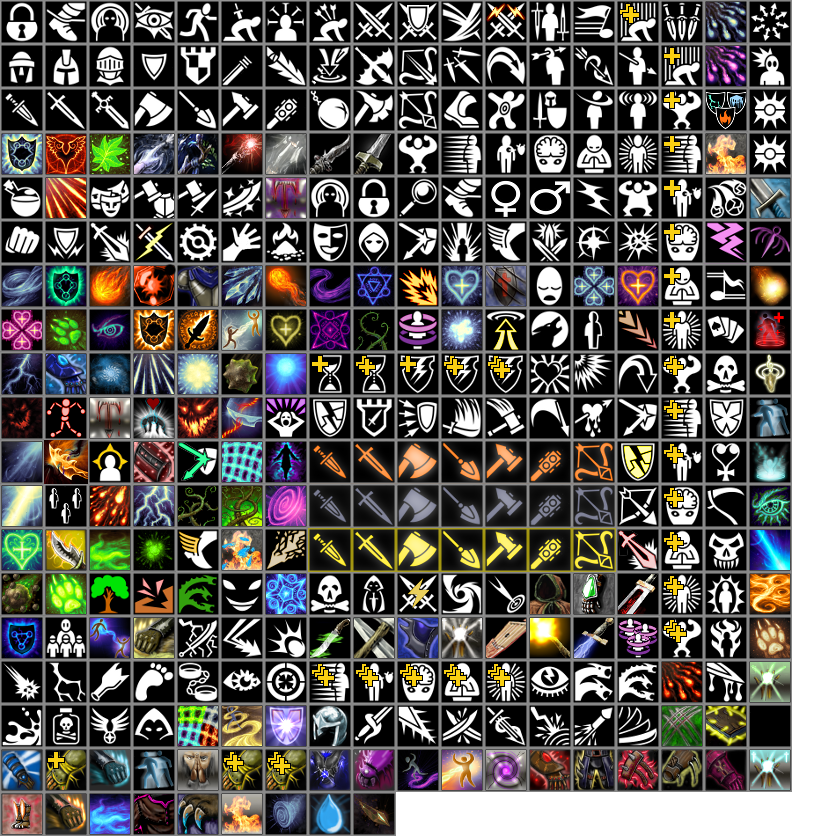
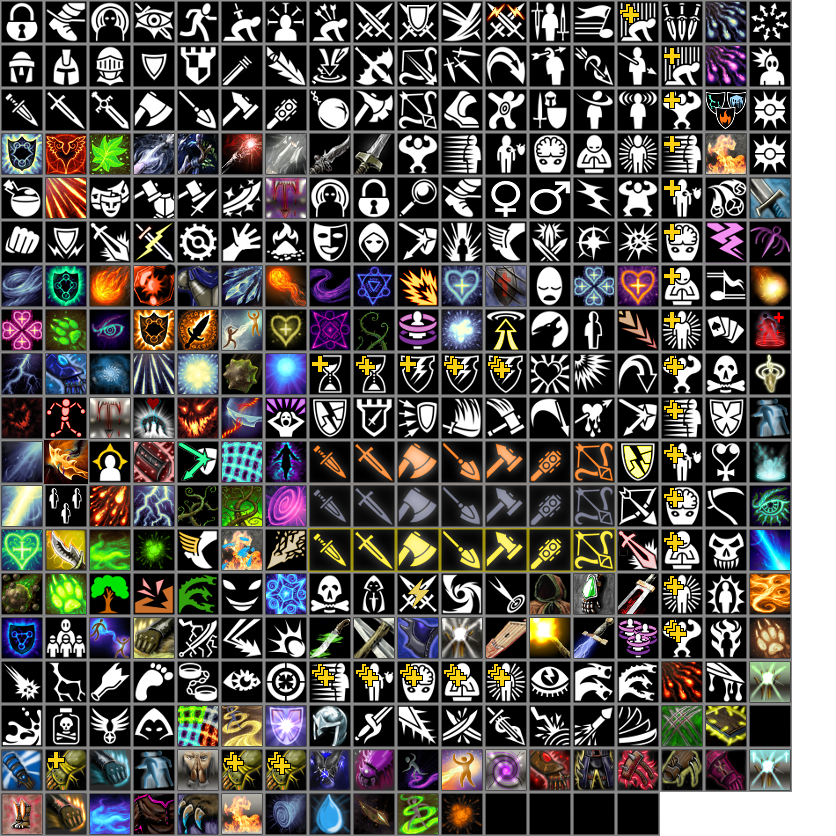
completed proof of concept medium ability

Changed region(s): [[0.4665, 0.933, 0.8086, 1.0]]

diff --git a/core/scripts/abilities/mediumInvocation.js b/core/scripts/abilities/mediumInvocation.js
@@ -1,0 +1,92 @@
+function onActivate(game, slot) {
+	var parent = slot.getParent();
+	
+	var gestures = getActiveGestures(parent);
+	
+	var creatures = game.ai.getTouchableCreatures(parent, "Hostile");
+	var targeter = game.createListTargeter(slot);
+	targeter.addAllowedCreatures(creatures);
+	targeter.activate();
+}
+
+function canActivate(game, parent, slot) {
+	var parent = slot.getParent();
+	
+	if (!parent.timer.canActivateAbility(slot.getAbilityID())) return false;
+	
+	var words = getActiveWords(parent);
+	var gestures = getActiveGestures(parent);
+	
+	if (words.length == 0) return false;
+	
+	return true;
+}
+
+function getActiveWords(parent) {
+	var words = [];
+	
+	if (parent.get("roleMediumWordFire") == true) words.push("Fire");
+	
+	return words;
+}
+
+function getActiveGestures(parent) {
+	var gestures = [];
+	
+	return gestures;
+}
+
+function onTargetSelect(game, targeter) {
+	var ability = targeter.getSlot().getAbility();
+	var parent = targeter.getParent();
+    // cast the spell
+    targeter.getSlot().activate();
+	
+	var target = targeter.getSelectedCreature();
+
+	// check for spell failure
+	if (!ability.checkSpellFailure(parent, target)) return;
+	
+	// perform the touch attack in a new thread as it will block
+	var cb = ability.createDelayedCallback("performTouch");
+	cb.addArgument(targeter);
+	cb.start();
+}
+
+function performTouch(game, targeter) {
+	var spell = targeter.getSlot().getAbility();
+	var parent = targeter.getParent();
+	var target = targeter.getSelectedCreature();
+	var casterLevel = parent.stats.getCasterLevel();
+	
+	if (game.meleeTouchAttack(parent, target)) {
+		// create the callback that will apply damage partway through the animation
+		var callback = spell.createDelayedCallback("applyWords");
+		callback.setDelay(0.2);
+		callback.addArguments([parent, target, targeter]);
+		
+		// create the animation
+		var anim = game.getBaseAnimation("blast");
+		var position = target.getLocation().getCenteredScreenPoint();
+		anim.setPosition(position.x, position.y);
+		
+		game.runAnimationNoWait(anim);
+		game.lockInterface(anim.getSecondsRemaining());
+		callback.start();
+	}
+}
+
+function applyWords(game, parent, target, targeter) {
+	var words = getActiveWords(parent);
+	var spell = targeter.getSlot().getAbility();
+	var casterLevel = parent.stats.getCasterLevel();
+	
+	for (var i = 0; i < words.length; i++) {
+		var word = words[i];
+		
+		if (word == "Fire") {
+			var damage = game.dice().rand(4, 8) + casterLevel;
+			spell.applyDamage(parent, target, damage, "Fire");
+		}
+	}
+}

diff --git a/core/scripts/abilities/mediumWordGesture.js b/core/scripts/abilities/mediumWordGesture.js
@@ -1,0 +1,60 @@
+function onActivate(game, slot) {
+   var abilityID = slot.getAbilityID();
+   var parent = slot.getParent();
+   var duration = 2;
+   
+   if (abilityID == "WordFire") {
+	   slot.setActiveRoundsLeft(duration);
+	   slot.activate();
+	   parent.timer.performAction(5000);
+	   
+	   var effect = slot.createEffect("abilities/mediumWordGesture");
+	   effect.setDuration(duration);
+	   effect.setTitle("Medium Word: Fire");
+	   effect.put("parentMediumValue", "roleMediumWordFire");
+	   parent.put("roleMediumWordFire", true);
+	
+	   parent.applyEffect(effect);
+   }
+}
+
+function canActivate(game, parent, slot) {
+	var abilityID = slot.getAbilityID();
+    var parent = slot.getParent();
+	
+	var numWords = getNumActiveWords(parent);
+	var numGestures = getNumActiveGestures(parent);
+	
+	if (abilityID.startsWith("Word")) {
+		// a word
+		if (numWords + 1 > numGestures) {
+			return parent.timer.canPerformAction(5000);
+		}
+	} else {
+		// a gesture
+		if (numGestures + 1 > numWords) {
+			return parent.timer.canPerformAction(5000);
+		}
+	}
+	
+	return true;
+}
+
+function getNumActiveWords(parent) {
+	var count = 0;
+	
+	if (parent.get("roleMediumWordFire") == true) count++;
+	
+	return count;
+}
+
+function getNumActiveGestures(parent) {
+	var count = 0;
+	
+	return count;
+}
+
+// called on the removal of the word / gesture effect
+function onRemove(game, effect) {
+	parent.put(effect.get("parentMediumValue"), false);
+}

diff --git a/src/net/sf/hale/ability/AbilitySlot.java b/src/net/sf/hale/ability/AbilitySlot.java
@@ -407,7 +407,7 @@ public class AbilitySlot implements Saveable {
 		if (!Game.isInTurnMode() && !getAbility().canActivateOutsideCombat()) return false;
 		
 		if (getAbility().hasFunction(ScriptFunctionType.canActivate)) {
-			Object returnValue = getAbility().executeFunction(ScriptFunctionType.canActivate, parent);
+			Object returnValue = getAbility().executeFunction(ScriptFunctionType.canActivate, parent, this);
 			return Boolean.TRUE.equals(returnValue);
 		} else {
 			return true;
